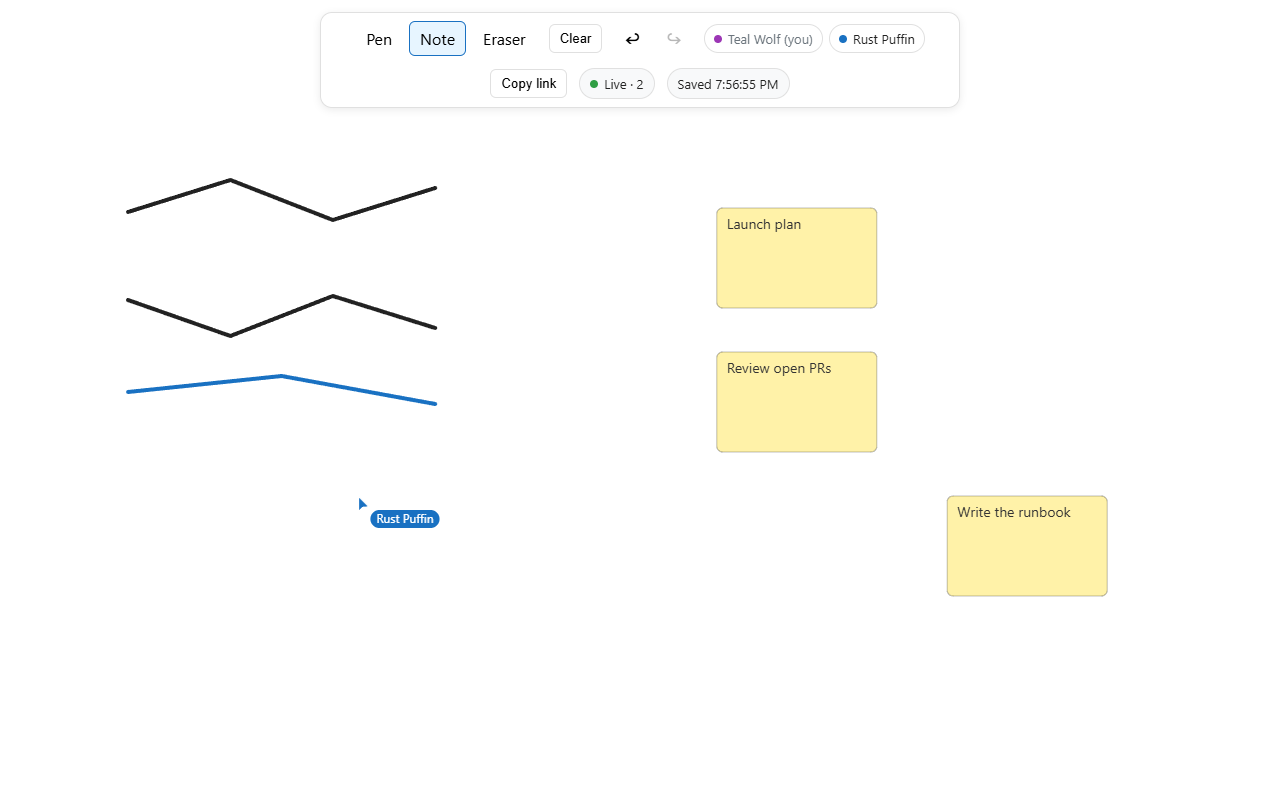
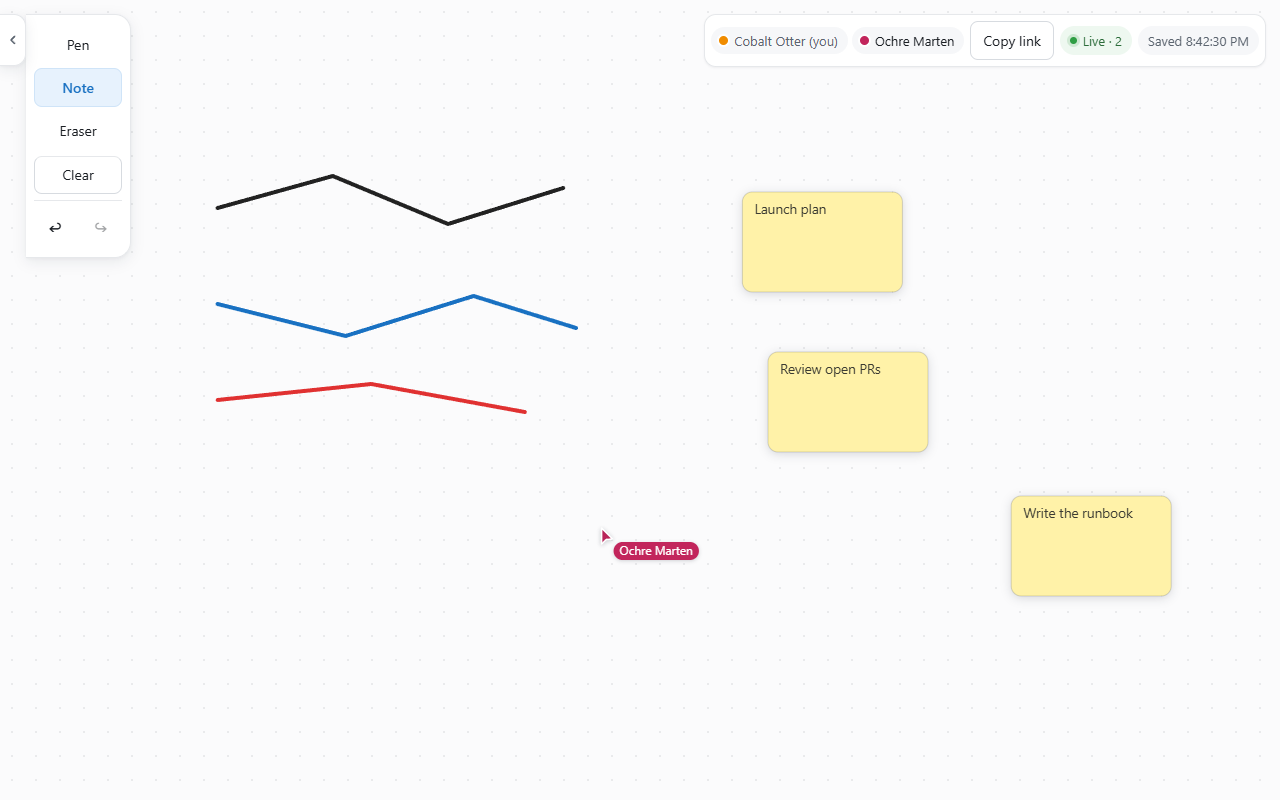
docs: refresh README screenshots for the new interface

diff --git a/README.md b/README.md
@@ -9,7 +9,7 @@ everything is saved so the board is still there when you come back.
 
 ## Demo
 
-Two people in the same room — their names sit in the toolbar and their cursor
+Two people in the same room — their names sit in the room bar and their cursor
 moves live on the board:
 
 ![Two collaborators on one board, showing the second participant's name and cursor](docs/images/collab.png)
@@ -20,12 +20,12 @@ Notes, the participant list, and the save indicator at a glance:
 
 ## Features
 
-- **Live drawing** — freehand strokes with color and width choices, synced as
-  you draw.
+- **Live drawing** — freehand strokes with color and width choices, from a tool
+  rail that slides out of the way, synced as you draw.
 - **Sticky notes** — click to place, drag to move, double-click to edit.
 - **Rooms via link** — each board gets a short shareable URL. No accounts.
-- **Presence with names and cursors** — everyone in the room appears in the
-  toolbar with a display name and a colour, and their pointer moves live on the
+- **Presence with names and cursors** — everyone in the room appears in the room
+  bar with a display name and a colour, and their pointer moves live on the
   board.
 - **Save state** — connection status and a save indicator on every edit.
 - **Undo / redo** (`Ctrl+Z` / `Ctrl+Y`) — works across the room.
